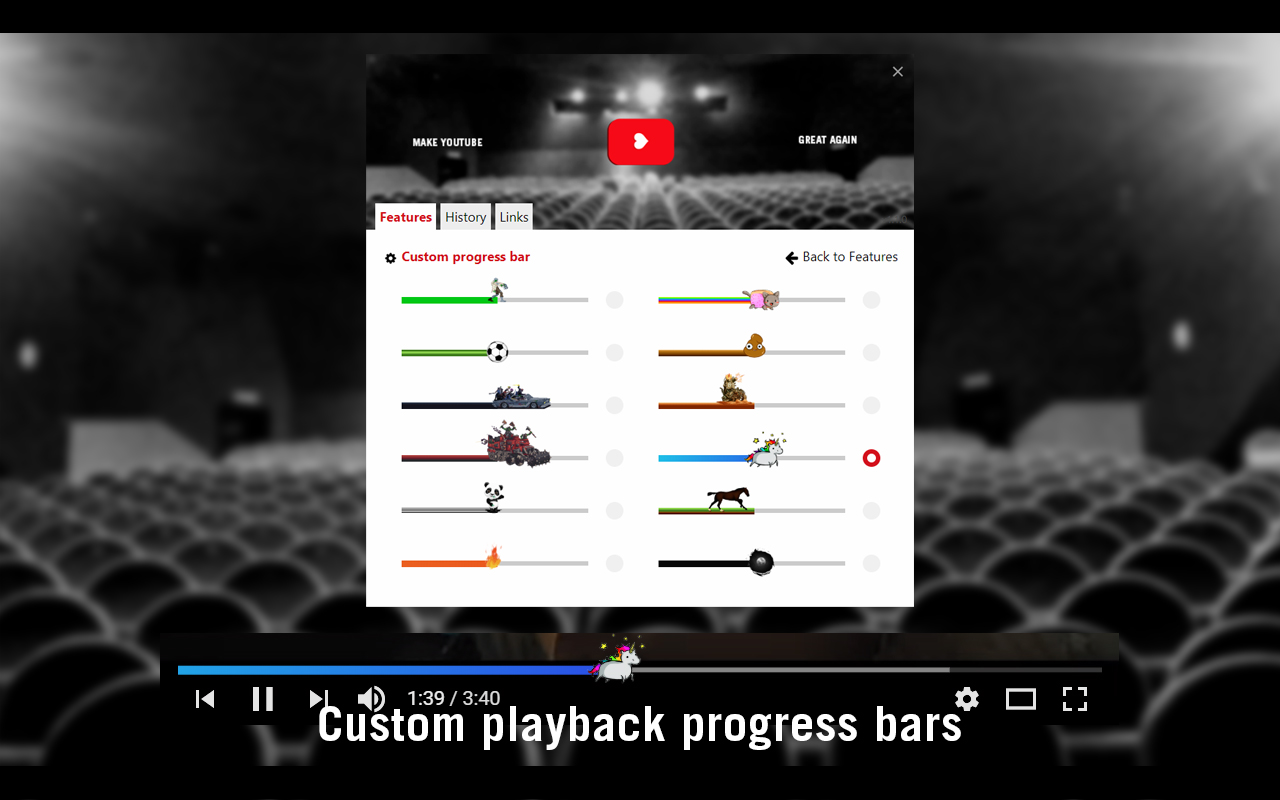
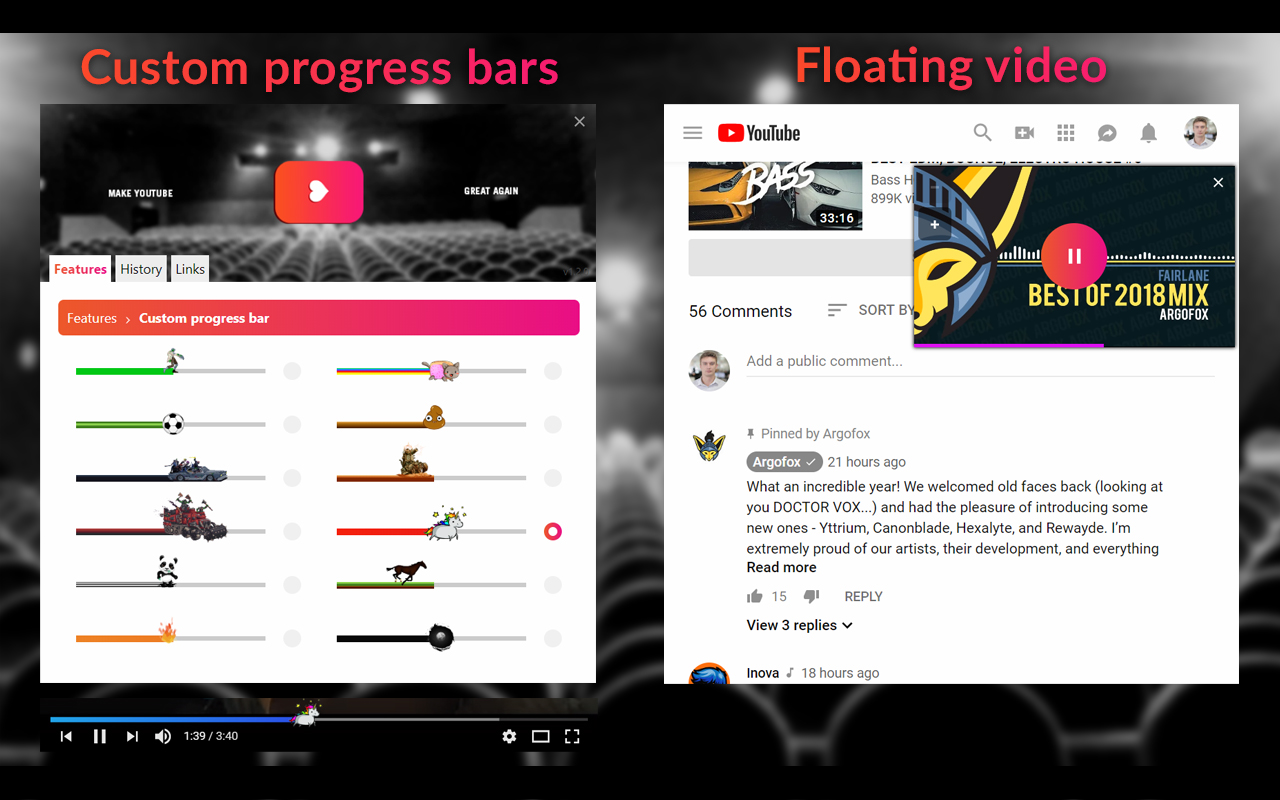
chore(release): verion 1.2.0

diff --git a/README.md b/README.md
@@ -92,6 +92,16 @@ ____
 </p>
 Have a custom and nice looking playback progress bar!
 
+____
+
+<p align="center">
+  <strong>Floating video</strong>
+  <p align="center">
+  <img src="docs/images/feature_06.gif" width="250px" alt="Custom progress barr" />
+  </p>
+</p>
+Don't miss a second of your YouTube video even when reading comments!
+
 ## Screenshots
 <a href="docs/images/screenshot_01.jpg" target="_blank"><img width="200px" src="docs/images/screenshot_01.jpg" alt="Screenshot" title="Screenshot" /></a><a href="docs/images/screenshot_02.jpg" target="_blank"><img width="200px" src="docs/images/screenshot_02.jpg" alt="Screenshot" title="Screenshot" /></a><a href="docs/images/screenshot_03.jpg" target="_blank"><img width="200px" src="docs/images/screenshot_03.jpg" alt="Screenshot" title="Screenshot" /></a><a href="docs/images/screenshot_04.jpg" target="_blank"><img width="200px" src="docs/images/screenshot_04.jpg" alt="Screenshot" title="Screenshot" /></a><a href="docs/images/screenshot_05.jpg" target="_blank"><img width="200px" src="docs/images/screenshot_05.jpg" alt="Screenshot" title="Screenshot" /></a>
 

diff --git a/CHANGELOG.md b/CHANGELOG.md
@@ -3,9 +3,23 @@
 
 ----
 
+> Release 1.2.0 (03/02/2019)
+
+New features
+- Floating video
+
+Other
+- Update theme
+- Display which features are new
+- Add settings to 'Download mp3' feature
+- Add settings to 'Hide comments' feature
+- Format big numbers in UI (eg. 1000 => 1k)
+
+----
+
 > Release 1.1.1 (26/01/2019)
 
-New features:
+New features
 - Custom progress bar (12 themes)
 - Features now can have settings
 
